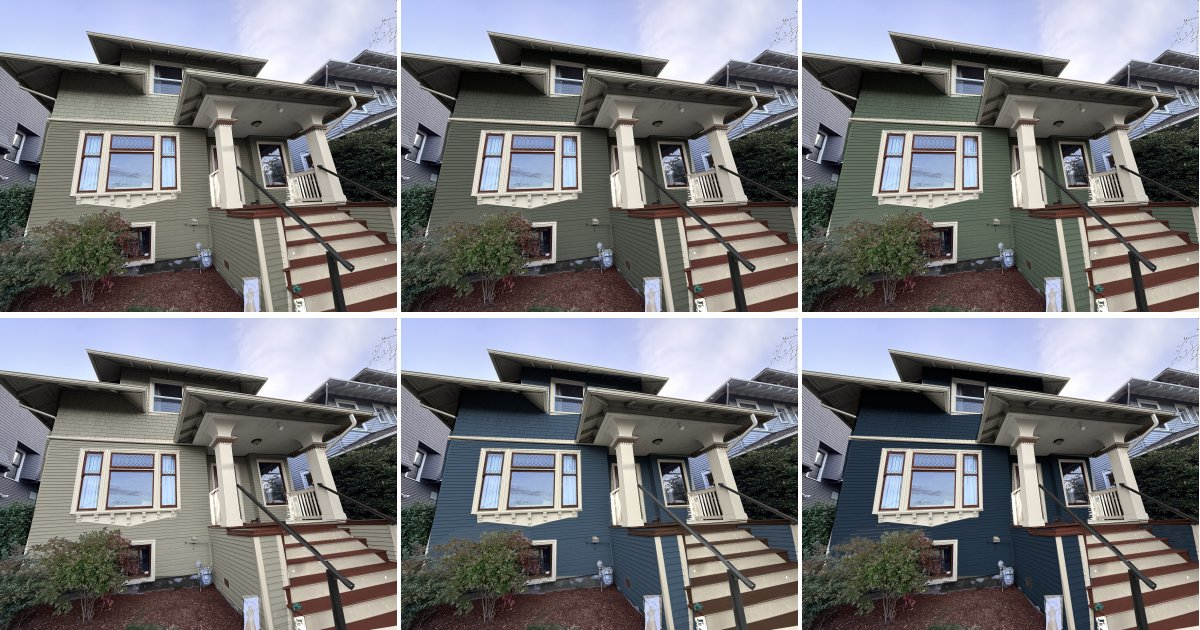
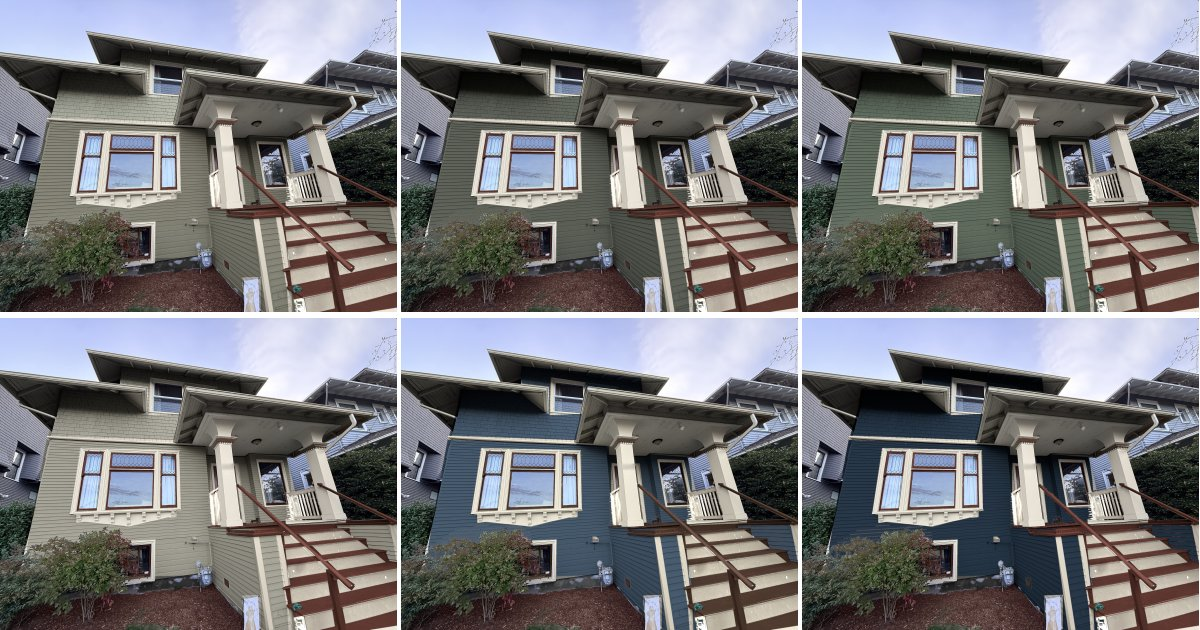
Paint the handrails in the accent color
Handrails now match the red-brown on the sashes, column capitals and
stairs (Fiery Brown, or Tudor Brown on Van Deusen Blue). The foundation
stays near-black.

Claude-Session: https://claude.ai/code/session_01SEo8oRAt4RWYwNfk84aejZ

diff --git a/index.html b/index.html
@@ -191,7 +191,7 @@ footer a{color:inherit}
   <header>
     <div class="eyebrow">Sherwin-Williams and Benjamin Moore · Seattle Craftsman</div>
     <h1>Seven color schemes for the house</h1>
-    <p class="lede">Each scheme is painted onto a photo of the house, from the greens through a warm gray to the blues. They share one trim-and-accent package: cream trim, one deep red-brown on the window sashes, column capitals, porch floor and stair treads, and black handrails. Only the wall color changes. Pick a scheme, then drag the slider to compare it with the house as it is today.</p>
+    <p class="lede">Each scheme is painted onto a photo of the house, from the greens through a warm gray to the blues. They share one trim-and-accent package: cream trim, and one deep red-brown on the window sashes, column capitals, porch floor, stair treads and handrails. Only the wall color changes. Pick a scheme, then drag the slider to compare it with the house as it is today.</p>
   </header>
 
   <section class="stage" aria-label="Rendered scheme">
@@ -211,8 +211,8 @@ footer a{color:inherit}
     <div class="shared">
       <span class="eyebrow">In every scheme</span>
       <span class="sc"><i style="background:#EFE8DB" aria-hidden="true"></i>Creamy trim</span>
-      <span class="sc"><i style="background:#5D3831" aria-hidden="true"></i>Fiery Brown sashes, capitals, porch floor and treads</span>
-      <span class="sc"><i style="background:#2F2F30" aria-hidden="true"></i>Tricorn Black handrails and foundation</span>
+      <span class="sc"><i style="background:#5D3831" aria-hidden="true"></i>Fiery Brown sashes, capitals, porch floor, treads and handrails</span>
+      <span class="sc"><i style="background:#2F2F30" aria-hidden="true"></i>Tricorn Black foundation</span>
       <span class="sc">Van Deusen Blue uses the Benjamin Moore equivalents: Linen White, Tudor Brown and Wrought Iron</span>
     </div>
   </section>
@@ -253,11 +253,11 @@ footer a{color:inherit}
   <section class="principles">
     <h2>How these were chosen</h2>
     <ul class="plist">
-      <li><b>Three colors, plus black.</b><span>Each scheme has a wall color, a cream for the trim, and one warm accent, the traditional three-part way of painting a house of this age. Black appears only on the thin elements, the handrails and the foundation strip.</span></li>
+      <li><b>Three colors.</b><span>Each scheme has a wall color, a cream for the trim, and one warm accent, the traditional three-part way of painting a house of this age. The only other paint is a near-black on the foundation strip, where it reads as a shadow line.</span></li>
       <li><b>Cream, not white.</b><span>A warm cream sits comfortably next to red-brown and wood, and looks soft rather than stark on gray days. In this photo the cream covers nearly half of the painted surface (eaves, porch ceiling, columns, trim and risers), which keeps every scheme bright, even the navy.</span></li>
-      <li><b>One accent, repeated.</b><span>The window sashes, the column capitals, the porch floor and the stair treads share one deep red-brown, so the windows and the entry read as one system rather than two different darks side by side. In this photo the accent covers about a tenth of the painted surface, enough to notice without taking over.</span></li>
+      <li><b>One accent, repeated.</b><span>The window sashes, the column capitals, the porch floor, the stair treads and the handrails share one deep red-brown, so the windows and the entry read as one system rather than several different darks side by side. In this photo the accent covers about a tenth of the painted surface, enough to notice without taking over.</span></li>
       <li><b>It builds on what's there.</b><span>Today the sashes and the front door are reddish stained wood, the stairs are painted brown and the column capitals carry a terracotta band. Fiery Brown keeps that warmth, a shade deeper and more muted.</span></li>
-      <li><b>Two-color stairs.</b><span>Red-brown treads with cream risers make each step stand out, and the dark treads hide dirt. The treads face the sky, so they look a little lighter and redder than the chip. The black handrails read as one crisp line across them.</span></li>
+      <li><b>Two-color stairs.</b><span>Red-brown treads with cream risers make each step stand out, and the dark treads hide dirt. The treads face the sky, so they look a little lighter and redder than the chip. The handrails take the same red-brown, so they read as part of the stair, like stained wood rails.</span></li>
       <li><b>The neighbors.</b><span>Both neighboring houses are cool blue-gray with white trim. Cream trim and warm accents set every scheme apart from them, even the blues, and the greens and Downing Stone contrast most.</span></li>
     </ul>
   </section>
@@ -270,7 +270,7 @@ footer a{color:inherit}
       <li>The window sashes are stained wood today. Painting them means sanding and priming first. Keeping the wood is an option, but it's lighter and more orange than Fiery Brown, so it won't match the stairs.</li>
       <li>Suggested sheens: satin or low-luster on siding and shingles, semi-gloss on trim and sashes, and porch-and-floor enamel with an anti-slip additive on the steps.</li>
       <li>The porch railings are cedar, which bleeds brown tannin stains through paint. Have the painter use a stain-blocking primer first.</li>
-      <li>The handrails are tan cedar today, so every scheme paints them black.</li>
+      <li>The handrails are tan cedar today, so every scheme paints them the accent color. If you ever replace them with metal rails, black is the usual choice and works with every scheme.</li>
       <li>Cream risers show scuffs. Use porch-and-floor enamel on the stairs and plan on occasional touch-ups.</li>
       <li>Every scheme keeps the existing stained wood front door, which is already close to the red-brown accent. The door is mostly hidden behind the left column in this photo.</li>
       <li>The upper window is white vinyl, so it stays white in every rendering. Painting vinyl a dark color isn't recommended, since dark paint absorbs heat and can warp it.</li>
@@ -321,47 +321,47 @@ const C = {
 // scores: cheerful on gray days, fits a 1910s Craftsman, broad buyer appeal, stands apart from neighbors, upkeep
 const P = [
   {id:"olive", title:"Craftsman Olive", kind:"Light over mid · olive", short:"Olive siding, sage-gray shingles",
-   body:[["Shingles, second floor","escape"],["Lap siding, first floor","mtnroad"]], trim:"creamy", accent:"fiery", porch:"fiery", rail:"tricorn", door:"wood",
+   body:[["Shingles, second floor","escape"],["Lap siding, first floor","mtnroad"]], trim:"creamy", accent:"fiery", porch:"fiery", rail:"fiery", found:"tricorn", door:"wood",
    why:"Mountain Road is an earthy olive-khaki, and olive, cream and a red-brown make a classic Arts and Crafts trio. The second-floor shingles are Escape Gray, a lighter sage-gray that keeps the top of the house from looking heavy under the deep eaves.",
    watch:"Olive is a more particular taste than the greens and blues, and the color change at the belt course adds a little to the cost of the paint job.",
    scores:[2,3,2,3,3]},
   {id:"pewter", title:"Pewter Green", kind:"Mid-deep · gray-green", short:"Deep gray-green with red-brown accents",
-   body:[["Siding and shingles","pewter"]], trim:"creamy", accent:"fiery", porch:"fiery", rail:"tricorn", door:"wood",
+   body:[["Siding and shingles","pewter"]], trim:"creamy", accent:"fiery", porch:"fiery", rail:"fiery", found:"tricorn", door:"wood",
    why:"Pewter Green is a deep gray-green with a soft, mossy cast. Dark green, cream and a mahogany red-brown is one of the classic Craftsman combinations, and the green would be the only one on the block. The cream trim keeps the house bright under the deep eaves.",
    watch:"On gray afternoons it reads darker and grayer than in sun, and dark colors fade sooner on walls that get strong afternoon sun.",
    scores:[2,3,2,3,2]},
   {id:"basil", title:"Basil", kind:"Mid-deep · green", short:"Clear mid green with red-brown accents",
-   body:[["Siding and shingles","basil"]], trim:"creamy", accent:"fiery", porch:"fiery", rail:"tricorn", door:"wood",
+   body:[["Siding and shingles","basil"]], trim:"creamy", accent:"fiery", porch:"fiery", rail:"fiery", found:"tricorn", door:"wood",
    why:"Basil has more green in it than Pewter Green and is a little lighter, so it looks fresh even under cloud. Red-brown sits nearly opposite green on the color wheel, so the sashes and stairs warm it up, and the cream trim keeps the porch bright. It's the most cheerful of the greens.",
    watch:"A clear green is a more personal choice than a gray-green, so it appeals to a slightly narrower group of buyers. In strong sun it can look brighter than the chip.",
    scores:[3,3,2,3,2]},
   {id:"downing", title:"Downing Stone", kind:"Light-mid · warm gray", short:"Warm gray with cream and red-brown",
-   body:[["Siding and shingles","downing"]], trim:"creamy", accent:"fiery", porch:"fiery", rail:"tricorn", door:"wood",
+   body:[["Siding and shingles","downing"]], trim:"creamy", accent:"fiery", porch:"fiery", rail:"fiery", found:"tricorn", door:"wood",
    why:"Downing Stone, from Sherwin-Williams' Historic Color collection, is a soft gray with a hint of green, lighter than every other wall color here. It stays quiet so the cream trim and the red-brown sashes, capitals and stairs can carry the house. It's the most cheerful scheme on a gray day and the easiest to keep looking clean.",
    watch:"Because the wall color is light and neutral, the accents do most of the work. With white trim and no accent it would look plain, so keep the cream and the red-brown together.",
    scores:[3,3,3,2,3]},
   {id:"vandeusen", title:"Van Deusen Blue", kind:"Mid-deep · blue", short:"Classic blue with brown accents",
-   body:[["Siding and shingles","vandeusen"]], trim:"linen", accent:"tudor", porch:"tudor", rail:"wrought", door:"wood",
-   why:"Van Deusen Blue, from Benjamin Moore's Historical Colors collection, is a classic deep blue, clearer than Deep Slate and lighter than Classic Navy. Linen White trim keeps it warm, and Tudor Brown on the sashes, capitals and stairs adds a warm note against the blue. All four paints come from Benjamin Moore.",
+   body:[["Siding and shingles","vandeusen"]], trim:"linen", accent:"tudor", porch:"tudor", rail:"tudor", found:"wrought", door:"wood",
+   why:"Van Deusen Blue, from Benjamin Moore's Historical Colors collection, is a classic deep blue, clearer than Deep Slate and lighter than Classic Navy. Linen White trim keeps it warm, and Tudor Brown on the sashes, capitals, stairs and handrails adds a warm note against the blue. All four paints come from Benjamin Moore.",
    watch:"It shares the cool cast of both neighbors, though the cream and brown set it apart. Tudor Brown is a little browner and less red than the Fiery Brown on the other schemes. Dark colors fade sooner on sunny walls.",
    scores:[2,3,3,2,2]},
   {id:"slate", title:"Deep Slate", kind:"Mid-deep · blue-gray", short:"Dark slate with red-brown accents",
-   body:[["Siding and shingles","granite"]], trim:"creamy", accent:"fiery", porch:"fiery", rail:"tricorn", door:"wood",
+   body:[["Siding and shingles","granite"]], trim:"creamy", accent:"fiery", porch:"fiery", rail:"fiery", found:"tricorn", door:"wood",
    why:"Granite Peak is a deep slate with a blue cast, dramatic like navy but lighter and grayer. A cool wall color with cream trim and a warm red-brown accent is a time-tested pairing, and the warm accent brings the slate to life.",
    watch:"Dark colors fade sooner on walls that get strong afternoon sun. It shares the cool cast of both neighbors.",
    scores:[2,2,2,2,2]},
   {id:"navy", title:"Classic Navy", kind:"Deep · navy", short:"Deep navy with red-brown accents",
-   body:[["Siding and shingles","navy"]], trim:"creamy", accent:"fiery", porch:"fiery", rail:"tricorn", door:"wood",
+   body:[["Siding and shingles","navy"]], trim:"creamy", accent:"fiery", porch:"fiery", rail:"fiery", found:"tricorn", door:"wood",
    why:"Navy with cream trim is a pairing almost every buyer recognizes. The red-brown sashes, capitals and stairs add warmth, so the house reads rich rather than severe, and the cream columns and railings stand out crisply against the navy.",
    watch:"It's the darkest option by far, at an LRV of about 4, so on gray afternoons the walls can read close to black, and the red-brown sashes are low-contrast against it. Dark colors also fade sooner on sunny walls.",
    scores:[1,2,3,2,2]}
 ];
 const brandOf = k => C[k].code.startsWith("BM") ? "Benjamin Moore" : "Sherwin-Williams";
-const ROLE_LABELS = {trim:"trim, columns, porch railings, stair risers, eaves, gutters", accent:"window sashes, column capital bands", porch:"porch floor, stair treads", rail:"handrails, foundation"};
+const ROLE_LABELS = {trim:"trim, columns, porch railings, stair risers, eaves, gutters", accent:"window sashes, column capital bands", porch:"porch floor, stair treads", rail:"handrails", found:"foundation"};
 P.forEach(p=>{
   const rows = p.body.slice();
   const groups = [];
-  [["trim",p.trim],["accent",p.accent],["porch",p.porch],["rail",p.rail]].forEach(([role,k])=>{
+  [["trim",p.trim],["accent",p.accent],["porch",p.porch],["rail",p.rail],["found",p.found]].forEach(([role,k])=>{
     let g = groups.find(x=>x.k===k);
     if(!g){ g={k, roles:[]}; groups.push(g); }
     g.roles.push(role);
@@ -391,10 +391,10 @@ const LRV_ROWS=[
   ["Trim and accent colors"],
   ["creamy","Trim on the six Sherwin-Williams schemes"],
   ["linen","Trim on Van Deusen Blue"],
-  ["wrought","Handrails and foundation on Van Deusen Blue"],
-  ["tudor","Sashes, column capitals, porch floor and stair treads on Van Deusen Blue"],
-  ["fiery","Sashes, column capitals, porch floor and stair treads on the six Sherwin-Williams schemes"],
-  ["tricorn","Handrails and foundation on the six Sherwin-Williams schemes"]
+  ["wrought","Foundation on Van Deusen Blue"],
+  ["tudor","Sashes, column capitals, porch floor, stair treads and handrails on Van Deusen Blue"],
+  ["fiery","Sashes, column capitals, porch floor, stair treads and handrails on the six Sherwin-Williams schemes"],
+  ["tricorn","Foundation on the six Sherwin-Williams schemes"]
 ];
 
 const $ = s => document.querySelector(s);
